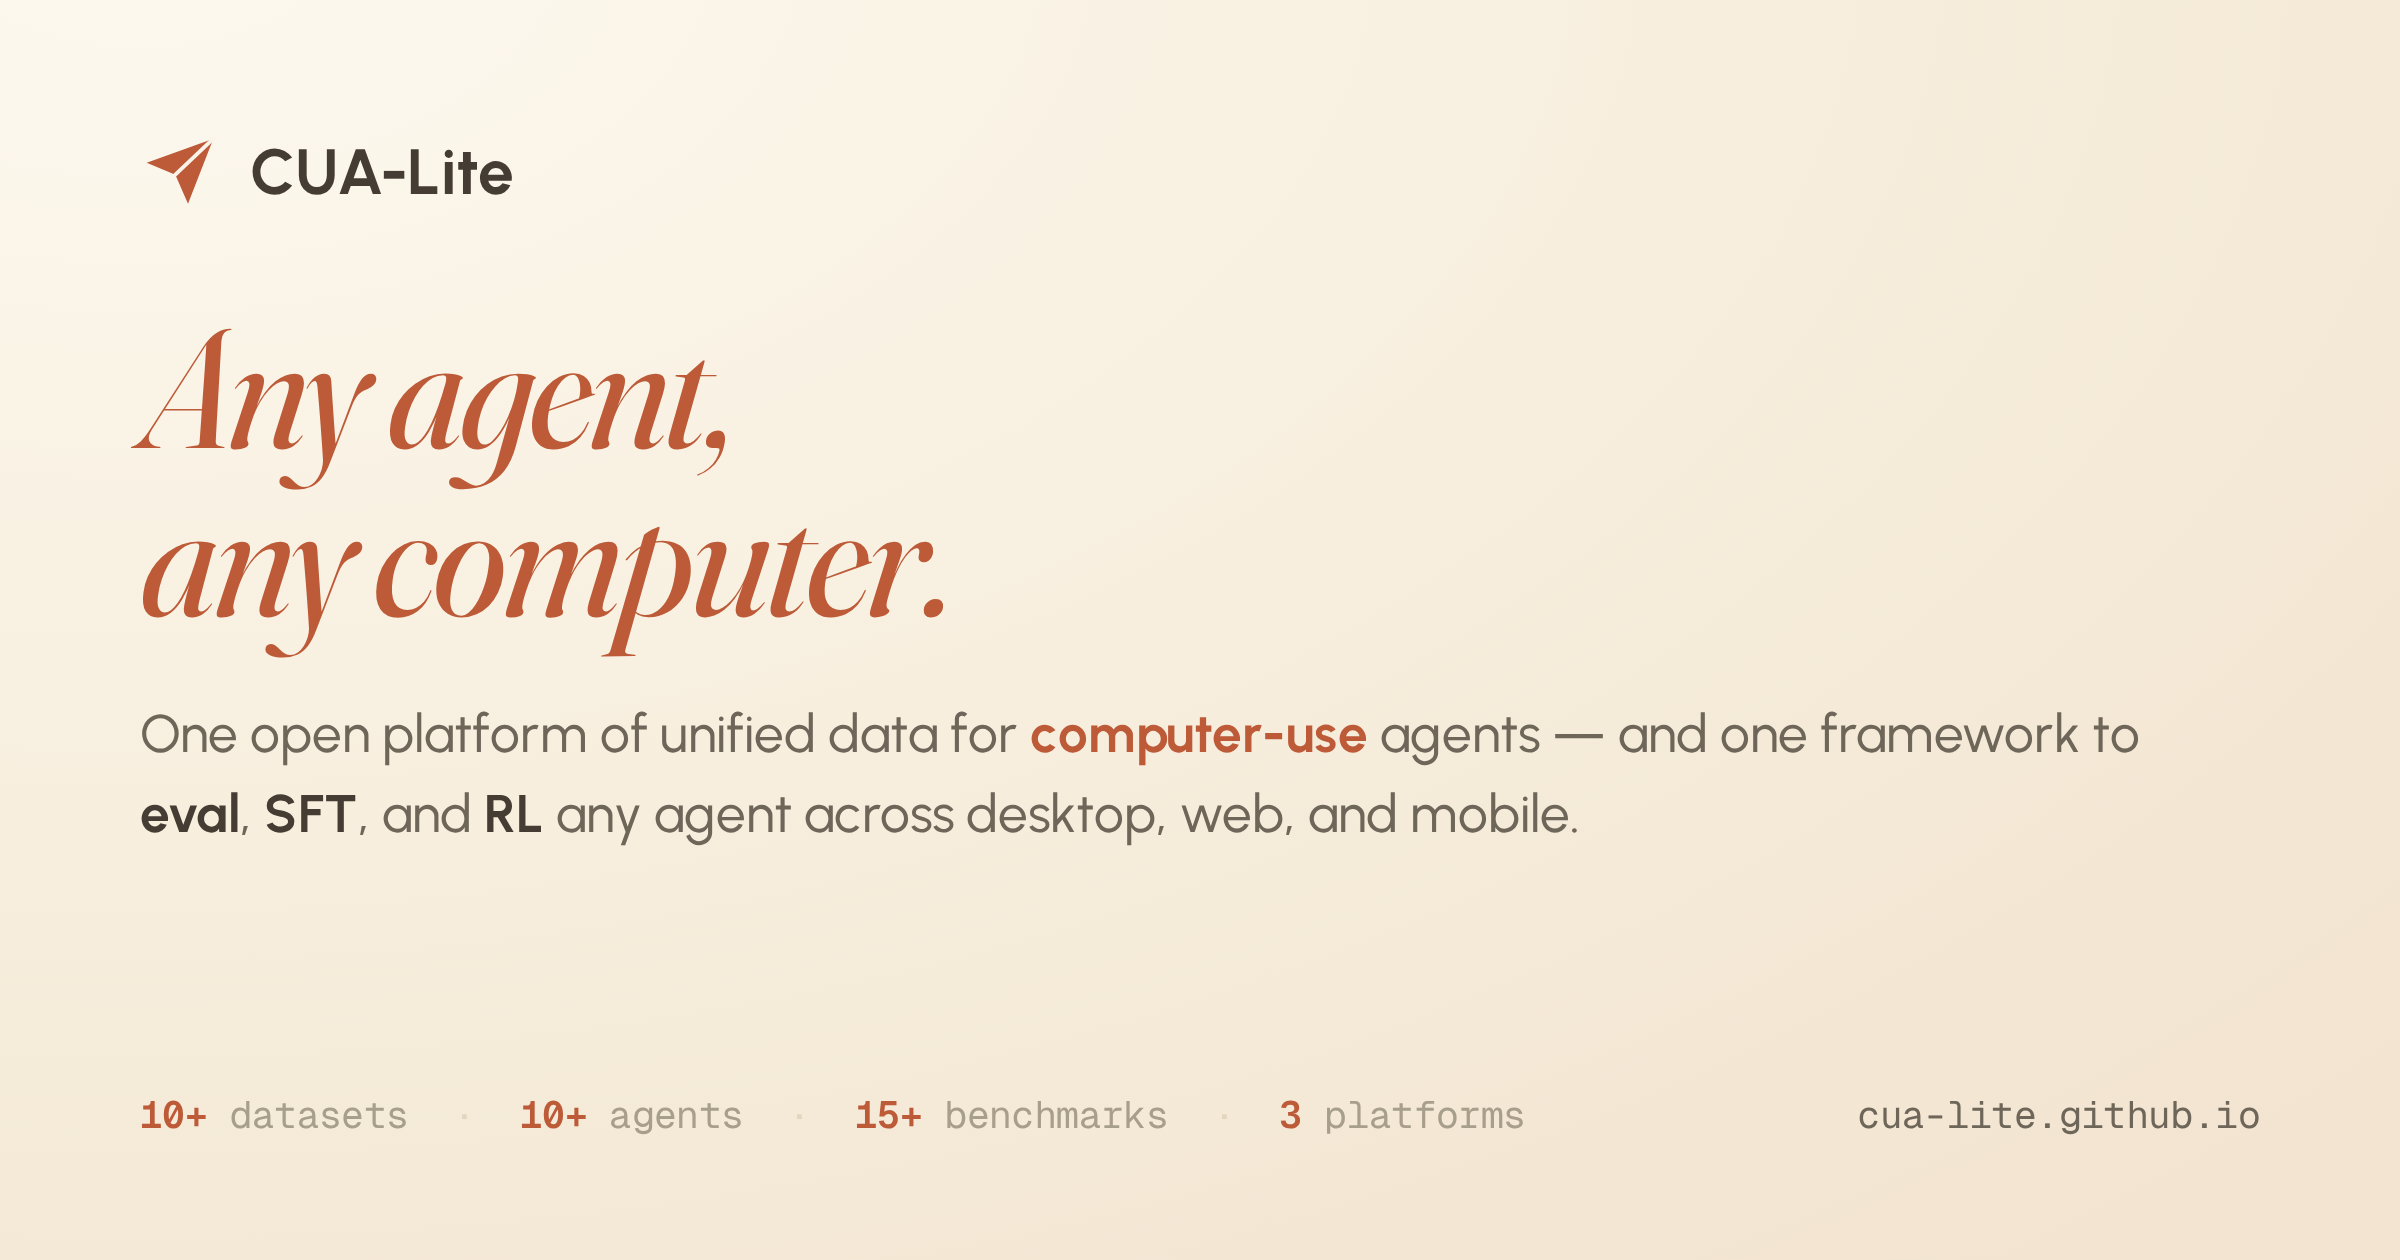
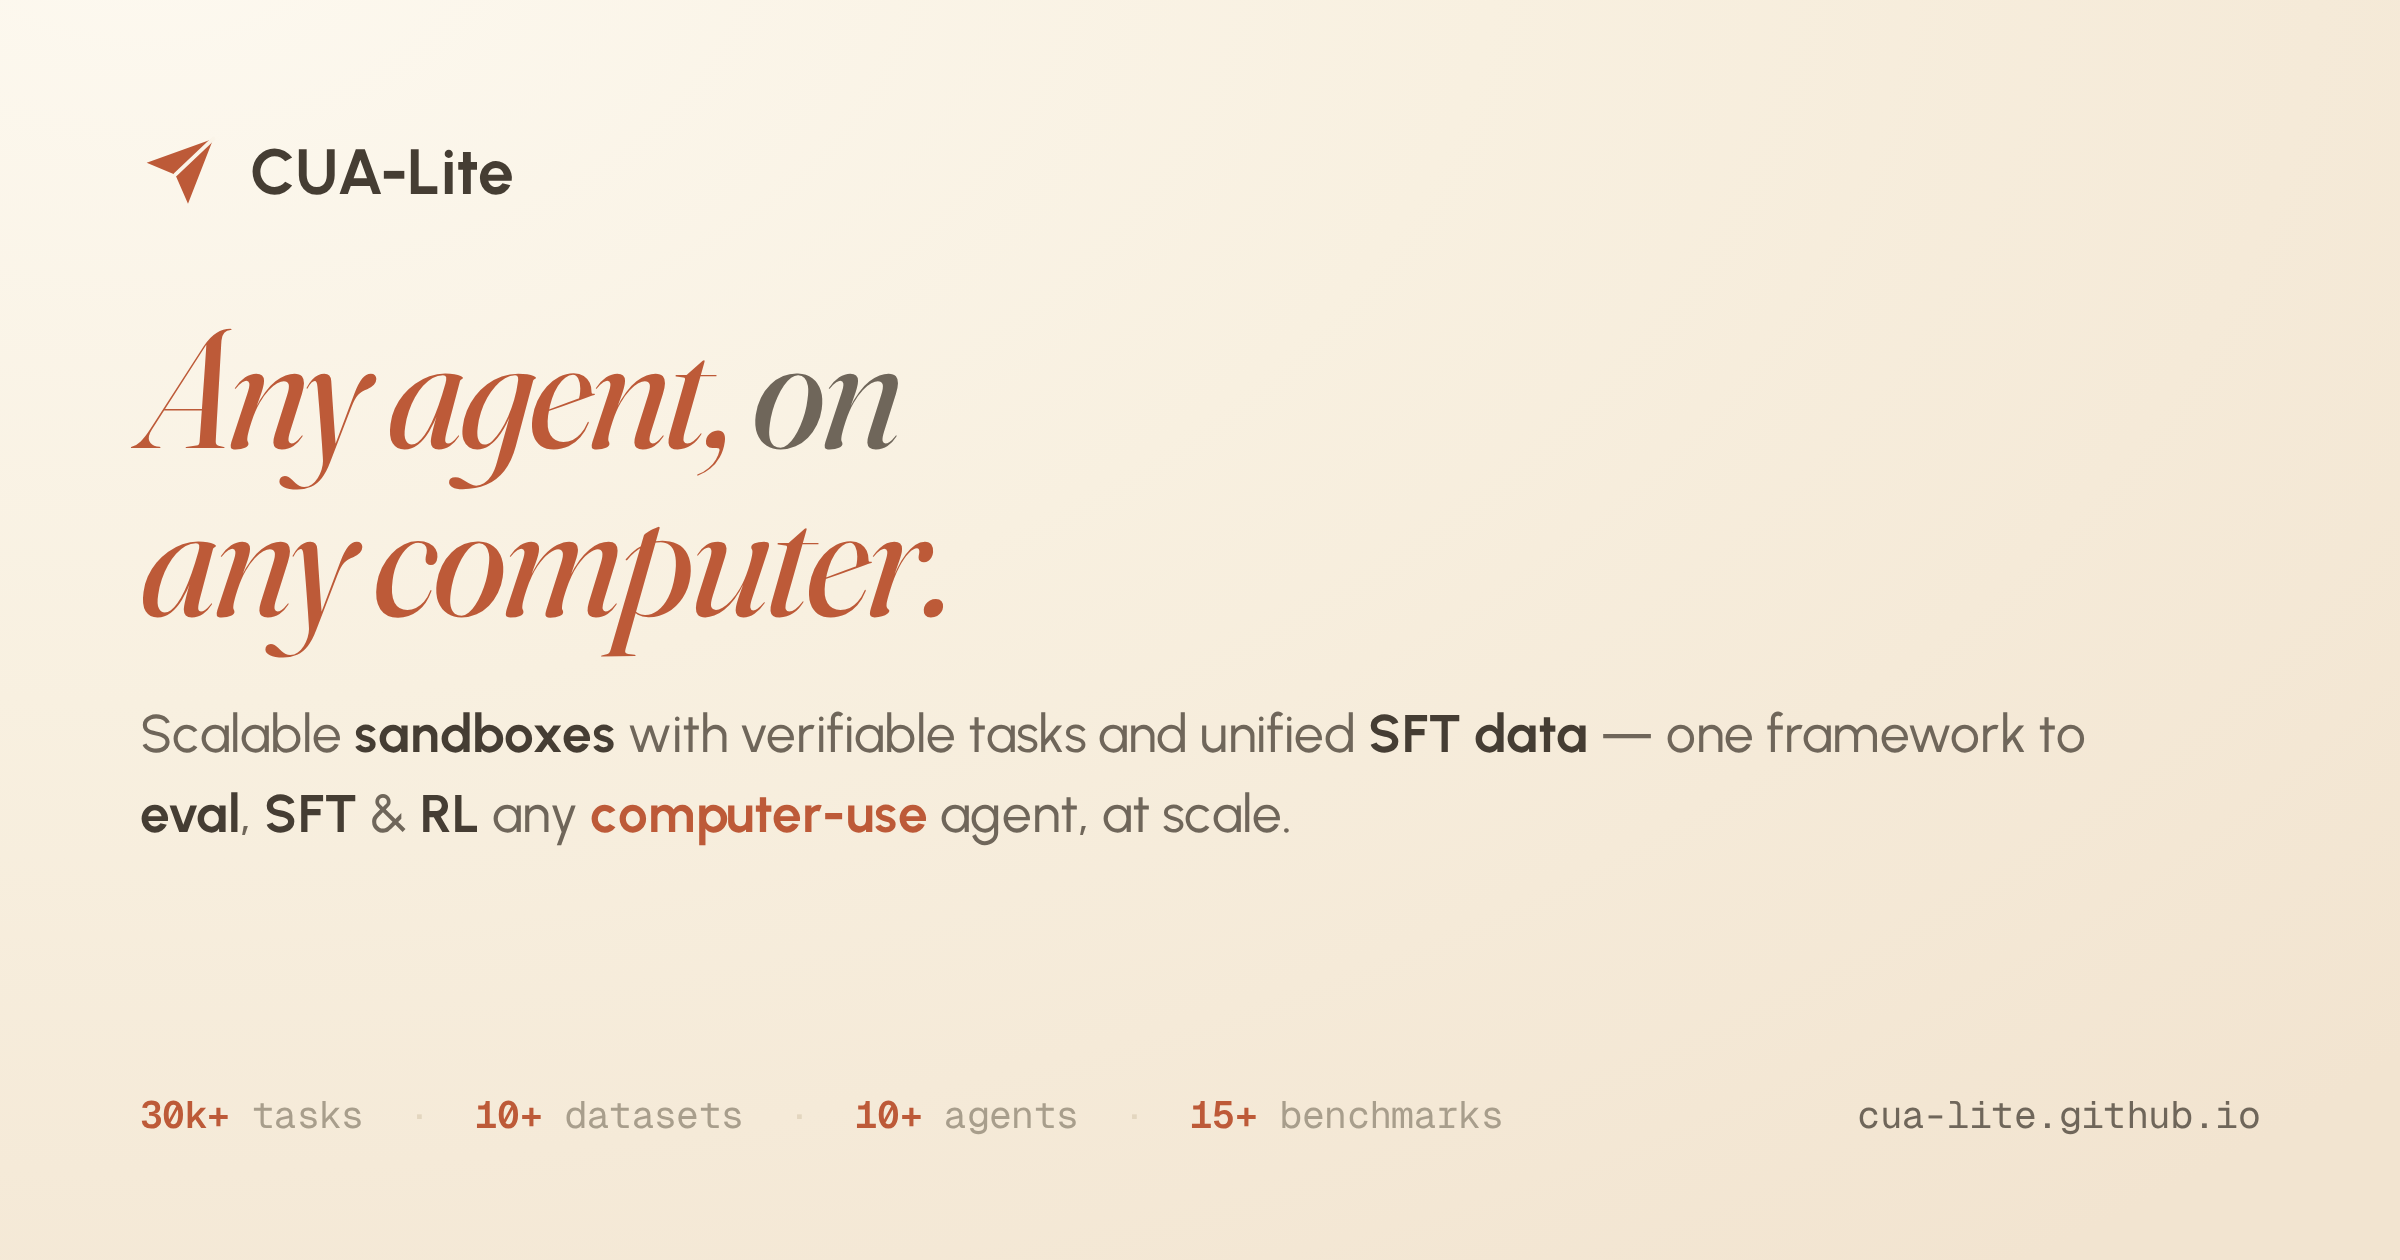
og + blog: refresh the social card; expand the framework lead
- Regenerate assets/og.png from scripts/make_og.py, now in sync with the site:
  "Any agent, on any computer." (grey "on" hinge), a subtitle naming all three
  pillars (scalable sandboxes with verifiable tasks · unified SFT data · one
  framework to eval/SFT/RL, at scale), and stats "30k+ tasks · 10+ datasets ·
  10+ agents · 15+ benchmarks" (dropped platforms). Bump og:image ?v=4 → ?v=5
  across all pages so social caches re-fetch.
- why-cua-lite "One framework: eval & RL" lead was too terse — restore a middle
  sentence explaining the eval/RL duality: "a rollout is scored to rank an agent,
  or trained on to improve it."

diff --git a/blog/why-cua-lite/index.html b/blog/why-cua-lite/index.html
@@ -16,7 +16,7 @@
 <meta property="og:title" content="Why CUA-Lite — and a call for contributors" />
 <meta property="og:description" content="Why CUA-Lite exists and how it grows: unified computer-use data free on Hugging Face, one framework to eval, SFT, and RL any agent — and where contributions fit." />
 <meta property="og:url" content="https://cua-lite.github.io/blog/why-cua-lite/" />
-<meta property="og:image" content="https://cua-lite.github.io/assets/og.png?v=4" />
+<meta property="og:image" content="https://cua-lite.github.io/assets/og.png?v=5" />
 <link rel="stylesheet" href="/css/style.css" />
 <style>
 /* article layout — the quiet template: one narrow column, no animation */
@@ -486,7 +486,8 @@
   <p><b>Any agent plugs into any environment through one interface.</b>
   They meet in <code class="lg" tabindex="0">lite.gym</code> — screenshots up,
   actions down, in one action space plus each env's extra tools. The same loop
-  serves eval and RL.</p>
+  serves both eval and RL: a rollout is scored to rank an agent, or trained on to
+  improve it.</p>
   <figure class="flow-demo" aria-label="Any environment paired with any agent through lite.gym: screenshots up, actions down">
     <div class="pair-board" data-board="pair">
       <div class="pair-col">

diff --git a/index.html b/index.html
@@ -18,13 +18,13 @@
 <meta property="og:title" content="CUA-Lite — Computer-Use Agents Made Simple" />
 <meta property="og:description" content="One open platform of unified data for computer-use agents, free on Hugging Face — and one framework to eval, SFT, and RL any agent across desktop, web, and mobile." />
 <meta property="og:url" content="https://cua-lite.github.io/" />
-<meta property="og:image" content="https://cua-lite.github.io/assets/og.png?v=4" />
+<meta property="og:image" content="https://cua-lite.github.io/assets/og.png?v=5" />
 <meta property="og:image:width" content="1200" />
 <meta property="og:image:height" content="630" />
 <meta name="twitter:card" content="summary_large_image" />
 <meta name="twitter:title" content="CUA-Lite — Computer-Use Agents Made Simple" />
 <meta name="twitter:description" content="One open platform of unified data for computer-use agents, free on Hugging Face — and one framework to eval, SFT, and RL any agent across desktop, web, and mobile." />
-<meta name="twitter:image" content="https://cua-lite.github.io/assets/og.png?v=4" />
+<meta name="twitter:image" content="https://cua-lite.github.io/assets/og.png?v=5" />
 <link rel="stylesheet" href="css/style.css" />
 </head>
 <body id="top">

diff --git a/blog/kvm-free-osworld/index.html b/blog/kvm-free-osworld/index.html
@@ -16,7 +16,7 @@
 <meta property="og:title" content="KVM-free OS(World) at Scale" />
 <meta property="og:description" content="Keep OSWorld's desktop, drop the VM: the same tasks and evaluators in a plain Docker container — a desktop benchmark that runs anywhere Docker does, at scale." />
 <meta property="og:url" content="https://cua-lite.github.io/blog/kvm-free-osworld/" />
-<meta property="og:image" content="https://cua-lite.github.io/assets/og.png?v=4" />
+<meta property="og:image" content="https://cua-lite.github.io/assets/og.png?v=5" />
 <link rel="stylesheet" href="/css/style.css" />
 <style>
 /* article layout — the quiet template, shared with /blog/why-cua-lite/ */

diff --git a/blog/index.html b/blog/index.html
@@ -16,7 +16,7 @@
 <meta property="og:title" content="Blog — CUA-Lite" />
 <meta property="og:description" content="The CUA-Lite blog." />
 <meta property="og:url" content="https://cua-lite.github.io/blog/" />
-<meta property="og:image" content="https://cua-lite.github.io/assets/og.png?v=4" />
+<meta property="og:image" content="https://cua-lite.github.io/assets/og.png?v=5" />
 <link rel="stylesheet" href="/css/style.css" />
 <style>
 /* blog-only layout — everything else (tokens, nav, pills, type) comes from the site stylesheet.

diff --git a/scripts/make_og.py b/scripts/make_og.py
@@ -34,6 +34,7 @@ body{width:1200px;height:630px;overflow:hidden;color:var(--text);font-family:'Ur
 h1{font-family:'Fraunces';font-style:italic;color:var(--accent);
   font-variation-settings:'opsz' 144,'wght' 400,'SOFT' 0,'WONK' 0;
   font-size:84px;line-height:1.0;letter-spacing:-0.025em;margin-top:46px;}
+h1 .hinge{color:var(--muted);}   /* the connective "on" — a quiet grey hinge, matching the hero */
 .lead{margin-top:28px;font-size:26.5px;line-height:1.5;color:var(--muted);max-width:1010px;font-weight:450;}
 .lead b{color:var(--text);font-weight:680;}
 .lead .lc{color:var(--accent);font-weight:680;}
@@ -45,11 +46,11 @@ h1{font-family:'Fraunces';font-style:italic;color:var(--accent);
 .foot .url{color:var(--muted);}
 </style></head><body>
 <div class="brand"><span class="plane"></span><span class="name">CUA-Lite</span></div>
-<h1>Any agent,<br>any computer.</h1>
-<p class="lead">One open platform of unified data for <span class="lc">computer-use</span> agents — and one framework to <b>eval</b>, <b>SFT</b>, and <b>RL</b> any agent across desktop, web, and mobile.</p>
+<h1>Any agent, <span class="hinge">on</span><br>any computer.</h1>
+<p class="lead">Scalable <b>sandboxes</b> with verifiable tasks and unified <b>SFT data</b> — one framework to <b>eval</b>, <b>SFT</b> &amp; <b>RL</b> any <span class="lc">computer-use</span> agent, at scale.</p>
 <div class="spacer"></div>
 <div class="foot">
-  <div class="stats"><b>10+</b> datasets <i>·</i> <b>10+</b> agents <i>·</i> <b>15+</b> benchmarks <i>·</i> <b>3</b> platforms</div>
+  <div class="stats"><b>30k+</b> tasks <i>·</i> <b>10+</b> datasets <i>·</i> <b>10+</b> agents <i>·</i> <b>15+</b> benchmarks</div>
   <div class="url">cua-lite.github.io</div>
 </div>
 </body></html>"""
